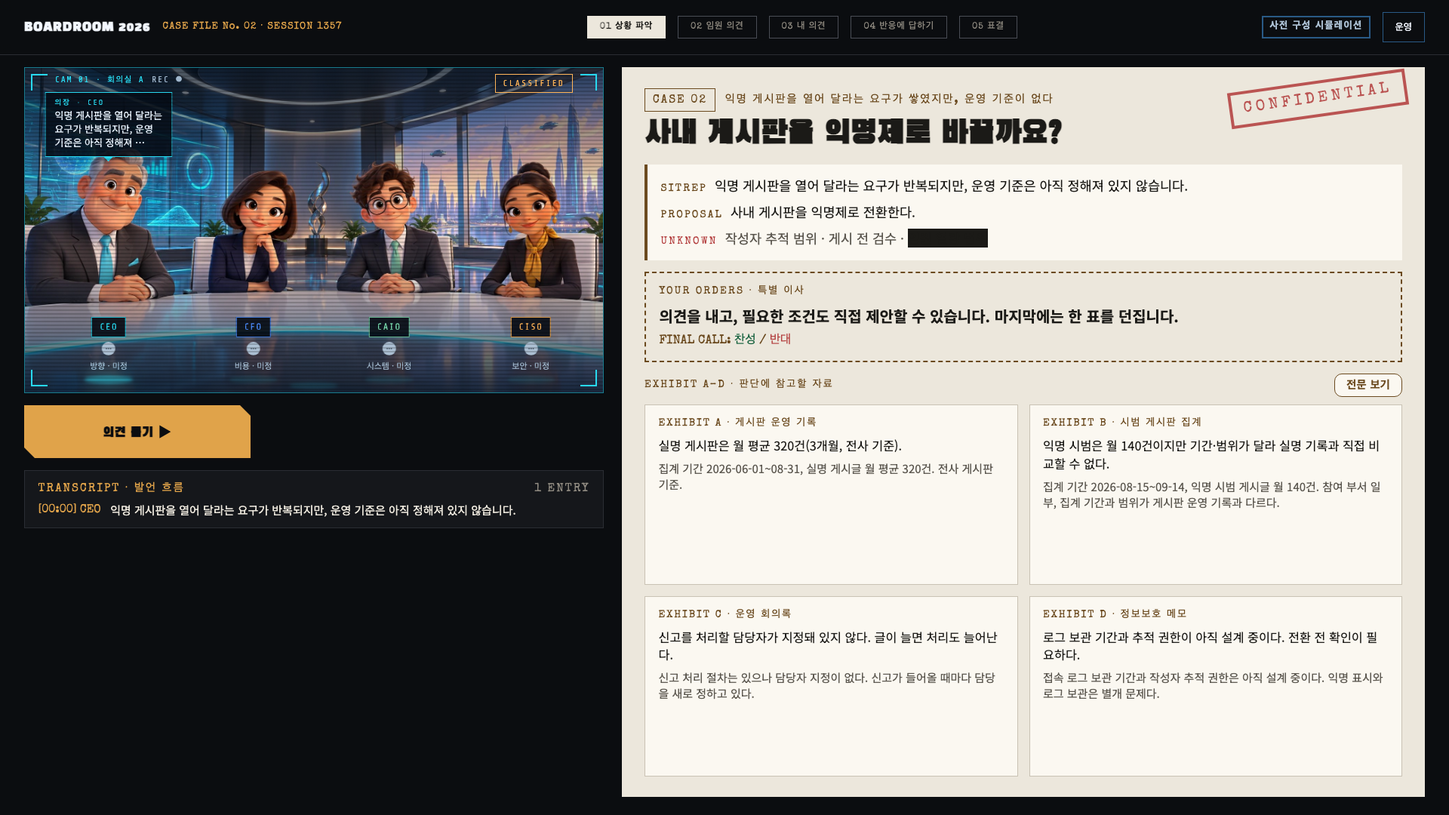
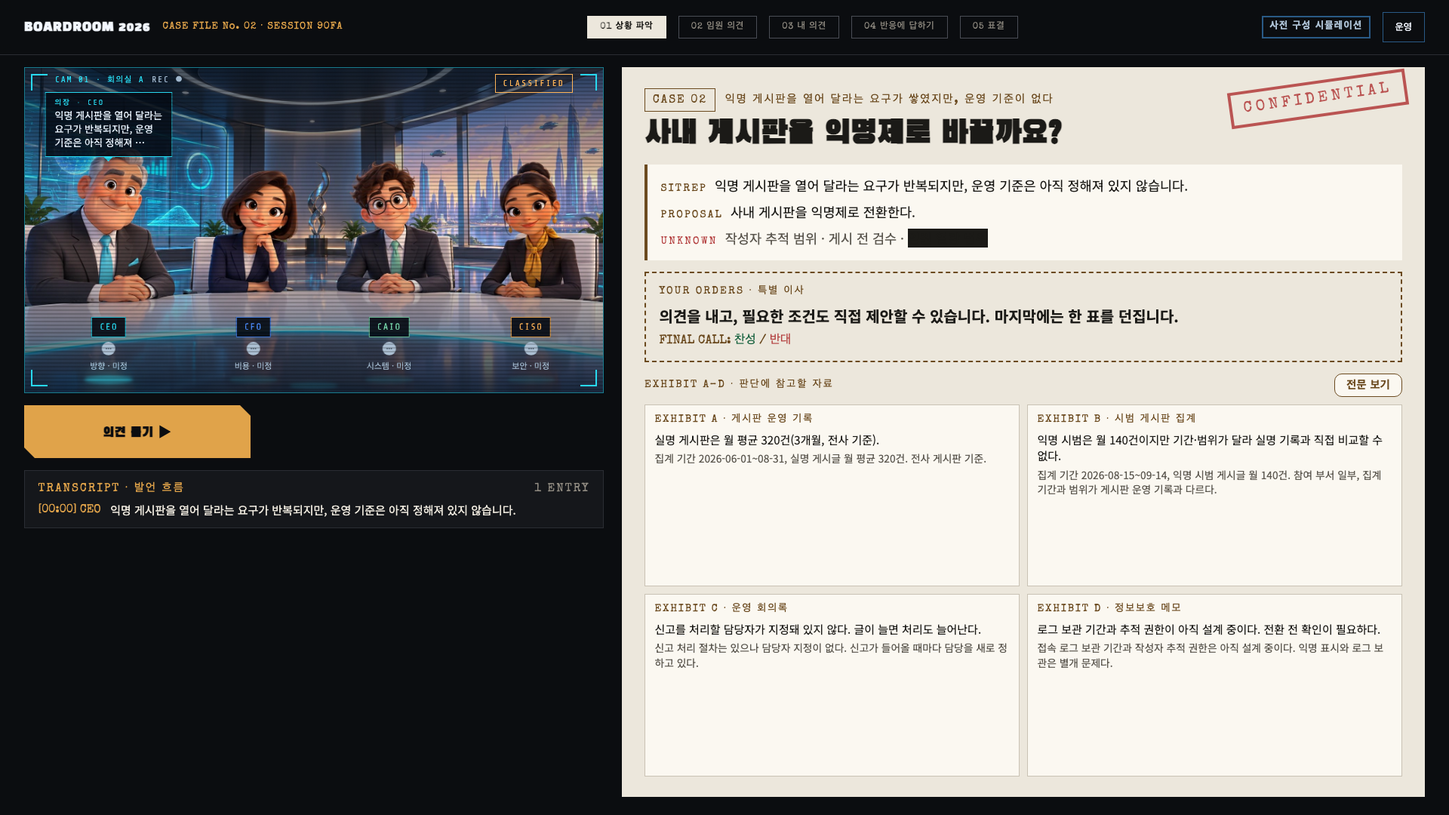
T80: PR #14 Codex 1차 검토 수정 — EXHIBIT 1280 클립, 전문 보기 터치 타깃, UNKNOWN 먹칠 aria-label
1) 1280×720에서 EXHIBIT C·D 카드가 그리드 내부 스크롤 밖으로 밀려 toBeVisible()은
   통과해도 실제로는 종이 패널 밖에 있었다. evidence-grid--compact에
   grid-auto-rows: minmax(0,1fr), evidence-card--compact에 min-height: 0을 더하고
   1280 치수(패딩·간격·클램프 글자 크기)를 줄여 두 행이 실제 가용 높이 안에
   맞도록 고쳤다. 요약 카드 bounding box가 종이 패널 안에 있는지 보는 e2e 단언을
   추가했다.

2) "전문 보기" 버튼이 작아지며 터치 타깃도 함께 줄어든 것을, 보이는 크기는 그대로
   두고 버튼 중심에 겹치는 투명 ::before(--touch-min 56px)로 히트 영역만 보강했다.
   버튼 바깥 지점을 눌러도 열리는지 좌표로 확인하는 e2e 단언을 추가했다.

3) 먹칠된 마지막 UNKNOWN 항목이 스크린리더에는 평문으로만 읽혀 "먹칠됨" 상태를
   알 수 없던 것을, aria-label로 값과 상태를 함께 읽게 고치고 단위 테스트를
   추가했다.

npm run check(단위 406)·npm run build·playwright(138건) 모두 통과. briefing.png(두
해상도) 재갱신, briefing-evidence.png는 팝업 자체가 바뀌지 않아 되돌렸다.

Changed region(s): [[0.4375, 0.7028, 0.9688, 0.8556], [0.7188, 0.4889, 0.9688, 0.6417], [0.4375, 0.4889, 0.6875, 0.5806]]

diff --git a/e2e/briefing.spec.ts b/e2e/briefing.spec.ts
@@ -8,6 +8,12 @@
 // 한 줄 → 결정 질문 → SITREP·PROPOSAL·UNKNOWN → YOUR ORDERS → EXHIBIT 2×2 요약 카드
 // (팝업 없이 항상 보임, testid `evidence-summary-<id>`) 순서로 바뀌었다 — 전문은 EXHIBIT
 // 머리줄의 "전문 보기"(여전히 testid `open-evidence`)로 연다.
+// PR #14 Codex 1차 검토(P2, 2026-10-02): 1280×720에서 EXHIBIT 카드 두 장(C·D)이 종이
+// 아래로 밀려 그리드 자체의 내부 스크롤(overflow-y:auto) 밖에 있었다 — `toBeVisible()`은
+// 그 상태에서도 통과하므로 종이 패널(`.briefing-screen__paper`) 안에 실제로 들어있는지
+// bounding box로 직접 확인한다. 같은 차수에서 "전문 보기" 버튼의 보이는 크기를 줄이며
+// 터치 타깃이 함께 줄어, 버튼 중심에 겹친 투명 히트 영역(`--touch-min`)으로 보강했다 —
+// 버튼 바깥(위로 10px) 지점을 눌러도 열리는지 좌표로 확인한다.
 
 import { test, expect } from './fixtures';
 
@@ -34,14 +40,49 @@ test('브리핑 오른쪽 열이 사건·결정 질문 → SITREP/PROPOSAL/UNKNO
 
   // T80: EXHIBIT 요약 카드 4장은 팝업 없이 항상 보인다(evidence-summary-<id>). 팝업
   // 전용 전문 카드(evidence-card-<id>)는 "전문 보기" 전에는 DOM에 없다.
+  // PR #14 Codex 1차 검토(P2): `toBeVisible()`만으로는 그리드 내부 스크롤 밖으로
+  // 밀려난 카드도 통과하므로, 종이 패널(`.briefing-screen__paper`) 경계 안에 bounding
+  // box가 실제로 들어있는지까지 두 해상도 모두에서 확인한다.
+  const paperBox = await page.locator('.briefing-screen__paper').boundingBox();
+  expect(paperBox, '종이 패널 위치를 읽을 수 있어야 한다').not.toBeNull();
   for (const id of EVIDENCE_IDS) {
-    await expect(page.getByTestId(`evidence-summary-${id}`)).toBeVisible();
+    const summaryCard = page.getByTestId(`evidence-summary-${id}`);
+    await expect(summaryCard).toBeVisible();
     await expect(page.getByTestId(`evidence-card-${id}`)).toHaveCount(0);
+    const cardBox = await summaryCard.boundingBox();
+    expect(cardBox, `${id} 요약 카드 위치를 읽을 수 있어야 한다`).not.toBeNull();
+    if (cardBox && paperBox) {
+      expect(
+        cardBox.y >= paperBox.y - 1 && cardBox.y + cardBox.height <= paperBox.y + paperBox.height + 1,
+        `${id} 요약 카드가 종이 패널 밖으로 밀려났다(card top=${cardBox.y}, bottom=${cardBox.y + cardBox.height}, paper top=${paperBox.y}, bottom=${paperBox.y + paperBox.height})`,
+      ).toBe(true);
+    }
   }
   const openEvidence = page.getByTestId('open-evidence');
   await expect(openEvidence).toHaveText('전문 보기');
 
-  await openEvidence.click();
+  // PR #14 Codex 1차 검토(P2): 보이는 버튼은 작아졌지만(1280에서 약 25px) 중심에 겹친
+  // 투명 `::before`가 `--touch-min`(56px) 이상의 히트 영역을 보장한다 — 버튼 자체 높이를
+  // 넘어서는 바깥(위로 10px) 지점을 눌러도 여전히 버튼 클릭으로 처리되는지 좌표로
+  // 직접 확인한다(계산된 버튼 높이만 재는 검사로는 실제 클릭 가능 여부를 증명하지 못한다).
+  const touchArea = await openEvidence.evaluate((el) => {
+    const style = getComputedStyle(el, '::before');
+    return { width: parseFloat(style.width), height: parseFloat(style.height) };
+  });
+  expect(
+    touchArea.height,
+    `전문 보기 버튼의 투명 히트 영역이 44px 미만이다(height=${touchArea.height})`,
+  ).toBeGreaterThanOrEqual(44);
+  const openBox = await openEvidence.boundingBox();
+  expect(openBox, '전문 보기 버튼 위치를 읽을 수 있어야 한다').not.toBeNull();
+  if (openBox) {
+    const outsideVisibleButtonY = openBox.y - 10;
+    expect(
+      outsideVisibleButtonY,
+      '터치 타깃 검증 전제: 버튼 위 10px 지점이 뷰포트 안에 있어야 한다',
+    ).toBeGreaterThan(0);
+    await page.mouse.click(openBox.x + openBox.width / 2, outsideVisibleButtonY);
+  }
   const dialog = page.getByTestId('evidence-dialog');
   await expect(dialog).toBeVisible();
   await expect(dialog).toHaveAttribute('role', 'dialog');

diff --git a/src/styles/screens/evidence.css b/src/styles/screens/evidence.css
@@ -89,26 +89,39 @@
    같으므로 다시 적지 않는다 — 치수(패딩·간격·글자 크기)만 덮어쓰고, 해석·원문은
    종이 한 장 안에서 2×2를 다 보여줘야 하므로 각 1~2줄로 클램프한다(기본 변형은
    EvidenceDialog 팝업 안에서만 쓰여 원문을 클램프하지 않는다 — 그 규칙은 그대로
-   둔다). */
+   둔다).
+   PR #14 Codex 1차 검토(P2): 1280×720에서 카드 두 장(C·D)이 종이 아래로 밀려 잘렸다
+   — 그리드 행(`grid-template-rows: auto`가 암묵적으로 만드는 행)과 카드(grid item)
+   모두 기본 최소 크기가 "내용 높이"라 `.evidence-grid`의 `flex:1`이 준 실제 가용
+   높이보다 카드 두 줄 분량이 더 크면(실측 232px 가용 vs 261px 필요) 그리드 자체의
+   `overflow-y:auto`가 조용히 스크롤을 만들어 `toBeVisible()`은 통과하지만 2×2 전체가
+   화면에 보이지 않았다. `grid-auto-rows: minmax(0, 1fr)`(행이 0까지 줄어들 수 있고
+   남는 공간을 균등히 나눠 가진다) + 카드 `min-height: 0`(grid item이 내용 높이 밑으로
+   줄어들 수 있게 허용)으로 두 행이 실제 가용 높이 안에 맞춰 줄어들게 하고,
+   1280 치수(패딩·행간·글자 크기)도 함께 줄여 두 줄 클램프가 실제로 그 안에 들어가게
+   했다(여유 있게 맞도록 재계산: 카드 1장 높이 104.8px × 2 + 그리드 행간 8px =
+   217.6px ≤ 실측 가용 232px). */
 .evidence-grid--compact {
-  gap: 15px;
+  gap: 10px;
+  grid-auto-rows: minmax(0, 1fr);
 }
 
 @media (max-width: 1280px) {
   .evidence-grid--compact {
-    gap: 12px;
+    gap: 8px;
   }
 }
 
 .evidence-card--compact {
-  padding: 15px 17.5px;
-  gap: 7.5px;
+  min-height: 0;
+  padding: 10px 12.5px;
+  gap: 5px;
 }
 
 @media (max-width: 1280px) {
   .evidence-card--compact {
-    padding: 12px 14px;
-    gap: 6px;
+    padding: 8px 10px;
+    gap: 4px;
   }
 }
 
@@ -123,7 +136,7 @@
 }
 
 .evidence-grid--compact .evidence-card__insight {
-  font-size: 16.25px;
+  font-size: 15px;
   line-height: 1.45;
   display: -webkit-box;
   -webkit-line-clamp: 2;
@@ -133,12 +146,12 @@
 
 @media (max-width: 1280px) {
   .evidence-grid--compact .evidence-card__insight {
-    font-size: 13px;
+    font-size: 12px;
   }
 }
 
 .evidence-grid--compact .evidence-card__meta {
-  font-size: 15px;
+  font-size: 13.75px;
   line-height: 1.4;
   display: -webkit-box;
   -webkit-line-clamp: 2;
@@ -148,6 +161,6 @@
 
 @media (max-width: 1280px) {
   .evidence-grid--compact .evidence-card__meta {
-    font-size: 12px;
+    font-size: 11px;
   }
 }

diff --git a/src/components/screens/BriefingScreen.tsx b/src/components/screens/BriefingScreen.tsx
@@ -33,8 +33,11 @@ export function BriefingScreen({ scenario, onNext }: BriefingScreenProps) {
 
   // UNKNOWN 줄(시안): 미정 항목을 " · "로 이어 붙이되, 시안의 먹칠(redaction)은
   // 마지막 항목에만 건다(카드 명시) — 글자색을 배경과 같게 해 시각적으로만 가리고
-  // 텍스트 자체(스크린리더가 읽는 내용)는 그대로 남긴다. 항목이 1개뿐이면 앞선 안내
-  // 문구 없이 그 하나만 먹칠한다.
+  // 텍스트 자체는 DOM에 그대로 남긴다. 항목이 1개뿐이면 앞선 안내 문구 없이 그
+  // 하나만 먹칠한다. PR #14 Codex 1차 검토(P2): 화면이 보이는 참가자에게는 "먹칠돼
+  // 아직 안 정해졌다"는 상태가 중요한데 평문 텍스트만 읽으면 스크린리더 사용자는
+  // 그 상태를 알 수 없었다 — `aria-label`로 값과 "먹칠 처리된 미정 항목"이라는 상태를
+  // 함께 읽어 준다(값 자체도 감추지 않는다).
   const undecidedItems = scenario.motionBreakdown.undecidedItems;
   const redactedItem = undecidedItems[undecidedItems.length - 1];
   const leadingItems = undecidedItems.slice(0, -1);
@@ -73,7 +76,12 @@ export function BriefingScreen({ scenario, onNext }: BriefingScreenProps) {
                 {leadingItems.length > 0 && (
                   <span className="briefing-screen__undecided-muted">{leadingItems.join(' · ')} · </span>
                 )}
-                <span className="briefing-screen__undecided-redacted">{redactedItem}</span>
+                <span
+                  className="briefing-screen__undecided-redacted"
+                  aria-label={`${redactedItem} (먹칠 처리된 미정 항목)`}
+                >
+                  {redactedItem}
+                </span>
               </p>
             )}
           </div>

diff --git a/src/styles/screens/briefing.css b/src/styles/screens/briefing.css
@@ -282,6 +282,7 @@
    올려 evidenceDialog.css의 단일 클래스 규칙을 항상 이긴다(이 화면의 허용 경로가
    evidenceDialog.css 밖이라 공용 규칙 자체는 건드리지 않는다). */
 .evidence-open-button.briefing-screen__evidence-trigger {
+  position: relative;
   min-height: 0;
   padding: 5px 15px;
   border-radius: 10px;
@@ -296,6 +297,22 @@
     border-radius: 8px;
     font-size: 12px;
   }
+}
+
+/* PR #14 Codex 1차 검토(P2): 위 override가 min-height를 0으로 낮춰 실제 보이는
+   버튼이 1280에서 약 25px로 줄어 터치 타깃 보장이 깨졌다. 글자 크기·테두리 등
+   보이는 모양은 그대로 작게 두고, 투명한 `::before`로 버튼 중심에 겹치는
+   `--touch-min`(56px, 다른 화면의 최소 클릭 영역과 같은 토큰) 이상의 히트 영역만
+   넓힌다 — 가상 요소는 버튼 자신의 렌더 박스라 그 안을 눌러도 버튼 클릭으로
+   처리된다(배경·테두리 없이 보이지는 않는다). */
+.evidence-open-button.briefing-screen__evidence-trigger::before {
+  content: '';
+  position: absolute;
+  top: 50%;
+  left: 50%;
+  width: max(100%, var(--touch-min));
+  height: var(--touch-min);
+  transform: translate(-50%, -50%);
 }
 
 /* 왼쪽 열 CTA(시안 "의견 듣기 ▶", 240×56/1280·300×70/1920 — AttractScreen.attract-screen__cta와

diff --git a/tests/components/BriefingScreen.test.tsx b/tests/components/BriefingScreen.test.tsx
@@ -43,4 +43,19 @@ describe('BriefingScreen', () => {
       expect(screen.getByTestId(`evidence-summary-${card.id}`)).toBeInTheDocument();
     }
   });
+
+  // PR #14 Codex 1차 검토(P2): 마지막 UNKNOWN 항목은 글자색을 배경과 같게 해
+  // 시각적으로만 가린다(먹칠) — 평문 텍스트만 읽으면 스크린리더 사용자는 "먹칠된
+  // 상태"를 알 수 없으므로 aria-label로 값과 상태를 함께 읽어 준다.
+  it('마지막 UNKNOWN 항목은 값과 "먹칠 처리된 미정 항목" 상태를 함께 읽는 aria-label을 가진다', () => {
+    render(<BriefingScreen scenario={anonBoardScenario} onNext={vi.fn()} />);
+    const items = anonBoardScenario.motionBreakdown.undecidedItems;
+    const lastItem = items[items.length - 1]!;
+    const redacted = screen.getByText(lastItem, { selector: '.briefing-screen__undecided-redacted' });
+    expect(redacted).toHaveAttribute('aria-label', `${lastItem} (먹칠 처리된 미정 항목)`);
+    // 앞선 항목들은 먹칠하지 않고 평문 그대로 보인다.
+    for (const item of items.slice(0, -1)) {
+      expect(screen.getByText(new RegExp(item))).toBeInTheDocument();
+    }
+  });
 });

diff --git a/docs/TASKS.md b/docs/TASKS.md
@@ -60,7 +60,7 @@
 | T75 | 완료 | 최종 안건 화면을 시안 `S5_Motion.html`대로(2026-10-02 "시안 이탈 금지" 지시). 왼쪽 열은 무대 아래 TRANSCRIPT만 남는다(시안에 입력 상자가 없다) — `app-body__actions`에는 `ExecStanceList`(sr-only)와 조건부 "응답 없는 임원 다시 요청" 보조 버튼만 둔다(공용 `MinutesPanel` 내부는 건드릴 수 없어 그 바로 위에 작게 배치). 오른쪽 종이 한 장에 STEP 05·1/2 + DRAFT 도장 + "MOTION ON THE TABLE · 원안/수정안" 상자(`domain/motion.ts` 문안 생성 규칙은 그대로 — 항상 `scenario.originalMotion.text`, 라벨만 확정 조건 유무로 가른다) + CONDITIONS·NOT INCLUDED 2열(녹색 pill은 OPINIONS와 같은 이유로 대비 미달 `#1f8f5f` 대신 `--paper-vote-yes`, NOT INCLUDED는 `scenario.conditions`에서 미확정 조건 라벨을 그대로 나열하는 새 계산) + CHAIR 점선 안내(시나리오 무관 공통 문구) + 바닥 CTA를 담는다. **CTA는 이 화면의 예외로 오른쪽 종이 바닥에 둔다**(왼쪽 열에 입력 상자가 전혀 없는 시안이라 "CTA는 항상 왼쪽 열" 원칙이 적용되지 않는다, motion.css 주석에 근거 기록). 시안에 없는 "남은 확인 사항"(remainingTasks) 목록은 뺐다(데이터·RESULT 화면 사용은 그대로). 기존 testid(`motion-card`·`motion-conditions`·`freeze-motion`·`motion-waiting-followup`·`retry-failed-roles`)는 모두 유지. `e2e/screenshots.spec.ts`에 빠져 있던 `motion.png` 캡처를 새로 추가. `npm run check`(단위 385)·`npm run build`·`npx playwright test -c playwright.local.config.ts`(126개) 모두 통과, 두 해상도 스크린샷을 `preview/S5_Motion.png`와 육안 대조(구성 일치). `DESIGN_SPEC.md` v1.3 절에 MOTION 소절(6절) 추가 |
 | T76 | 완료 | 표결 화면을 시안 `S6_Vote.html`대로(2026-10-02 "시안 이탈 금지" 지시, T75와 함께 처리). 왼쪽 열은 무대 아래 "BALLOTS · 임원 표" HUD 패널(`vote-screen__ballots`, 임원 4명 항상 봉인 "?" 배지 — 임원 표는 이 화면에서 절대 공개하지 않는 기존 규칙을 live·scripted 구분 없이 그대로 지킨다)과 TRANSCRIPT를 담는다. 안내 한 줄("임원 판단을 기다리는 중…")·"미표결 임원 다시 요청" 버튼은 live에서 `execBallotsPending`이 참인 동안만 보여준다 — **참가자 자신의 투표 확정 여부(`submitted`)와는 무관하게** 바꿨다(기존 코드는 `submitted`도 요구했지만 `execBallotsPending`은 live FREEZE_MOTION 즉시 참으로 시작해 참가자가 선택하기 전부터 이미 유효하고, 시안도 그 상태를 보여준다). 오른쪽 종이 한 장에 STEP 05·2/2 + CONFIDENTIAL 도장 + MOTION 한 줄 상자(`motion.text`는 그대로 — 반영 조건은 `vote-screen__sr-only` 문단으로 화면 모양 변화 없이 정보만 남긴다) + 찬성/반대 큰 원형 도장 라디오 2칸 + 바닥 CTA를 담는다. **CTA·라디오는 이 화면의 예외로 오른쪽 종이 안에 둔다**(T75와 같은 이유). 원형 도장 라디오는 네이티브 input을 `opacity:0`으로 숨기되 `label` 전체(`inset:0`+`width/height:100%`+`z-index:1`)를 덮게 한다 — 1×1px만으로는 position:absolute 기본 위치가 도장과 겹쳐 Playwright가 "intercepts pointer events"로 막혔고, `z-index` 없이는 같은 stacking 맥락의 `inline-flex` 도장이 실측상 더 위에서 클릭을 가로챘다(`document.elementFromPoint`로 확인). 기존 testid(`vote-motion-card`·`vote-radio-YES`/`-NO`·`confirm-vote`·`retry-failed-roles`)는 모두 유지. `e2e/screenshots.spec.ts`의 `vote.png`(두 해상도)를 새 레이아웃으로 갱신(T75의 `motion.png` 추가와 같은 파일이라 한 커밋에 모았다). `npm run check`(단위 385)·`npm run build`·`npx playwright test -c playwright.local.config.ts`(126개) 모두 통과, 두 해상도 스크린샷을 `preview/S6_Vote.png`와 육안 대조(구성 일치). `DESIGN_SPEC.md` v1.3 절에 VOTE 소절(7절)·검수 소절(8절) 추가 |
 | T77 | 완료 | 왼쪽 열 "발언 흐름" 패널(`MinutesPanel`)을 시안 TRANSCRIPT 형식(S2_Opinions·S5_Motion·S6_Vote·Main 공통)으로 통일. 아바타·역할 배지·"내 항목" 강조 배경을 빼고 행마다 타자기 앰버 `[mm:ss] 역할` 태그 + 본문만 남겼다. `components/minutes.ts`에 순수 함수 `formatElapsed(startedAt, occurredAt)`과 `MinutesEntry.timeLabel`을 더해 세션 시작 기준 실측 경과 시간을 계산한다(live 응답은 `Statement.createdAt`, "나" 항목은 `Opinion.createdAt`, 각본 문구·미응답은 `TIME_UNKNOWN`"--:--" — 항목 생성 규칙 자체는 건드리지 않았다). 판단 중 행은 점 세 개 애니메이션 대신 시안 그대로 "▌ 대기 중" 평문으로(muted 톤), 머리글 건수 배지는 "n건" 대신 "N ENTRIES · 스크롤"(1건은 "1 ENTRY")로 바꿨다. `minutes.css`를 시안 인라인 값(패딩 10px 14px·행 간격 6px·본문 12px/1.45)을 1280 이하 미디어쿼리로, 1920 기본은 1.25배로 재작성(모서리 각짐, T72~T76과 같은 비율). `live.css`의 죽은 `.vote-screen__waiting` 규칙 제거. RESULT "회의록 전문 보기"는 같은 `MinutesPanel`을 재사용해 화면 쪽 변경 없이 같은 모양이 된다(실측으로 "나" 항목의 실제 `mm:ss` 확인). `tests/components/minutes.test.ts`·`MinutesPanel.test.tsx`를 새 타임스탬프·pending 표시·건수 배지 형식에 맞게 갱신. `e2e/screenshots.spec.ts`의 `briefing.png`·`opinions.png`·`motion.png`·`vote.png`(두 해상도)만 갱신(패널이 없는 화면은 재인코딩 노이즈만 있어 되돌림). `npm run check`(단위 390)·`npm run build`·`npx playwright test -c playwright.local.config.ts`(126개) 모두 통과, 두 해상도 스크린샷을 `preview/S2_Opinions.png`·`S5_Motion.png`·`S6_Vote.png`와 육안 대조(구성 일치). `DESIGN_SPEC.md` v1.3 절에 TRANSCRIPT 패널 소절(8절) 추가, 검수 소절을 9절로 밀며 숫자 갱신 |
-| T80 | 완료 | BRIEFING 오른쪽 열을 시안 `docs/design/mockups/Main.html`(미리보기 `preview/Main.png`) 그대로 다시 썼다 — CONFIDENTIAL 도장 → CASE 칩+사건 한 줄 → 결정 질문 → SITREP·PROPOSAL·UNKNOWN 상자(먹칠은 마지막 항목만) → YOUR ORDERS 점선 상자("FINAL CALL: 찬성 / 반대") → EXHIBIT 2×2(남는 높이 채움) 순서. 자료 영역은 사용자 결정대로 압축 요약 카드(`EvidenceGrid` 새 `variant='compact'`, 해석·원문 각 1~2줄 클램프, testid `evidence-summary-<id>`)를 상시 두고, EXHIBIT 머리줄 오른쪽의 "전문 보기" 작은 보조 버튼(시안에 없는 유일한 추가 요소)이 기존 T68 `EvidenceDialog` 팝업(testid `evidence-card-<id>`, STATEMENTS 빈 상태 줄 포함)을 그대로 연다 — 팝업 자체(role="dialog"·포커스 트랩·Esc/딤/닫기 버튼 세 경로·스크롤 잠금)는 손대지 않았다. `briefing.css`를 전면 재작성해 모든 치수를 시안 1280 인라인 값(`@media max-width:1280px`) + 1920 기본 1.25배로 맞췄다(CTA "의견 듣기 ▶" 240×56/300×70 등). testid(`chair-briefing`·`briefing-incident`·`briefing-status`·`briefing-role`·`open-evidence`)는 모두 유지. `tests/components/BriefingScreen.test.tsx`·`e2e/briefing.spec.ts`를 새 구성·testid에 맞게 갱신(`e2e/noscroll.spec.ts`·`screenshots.spec.ts`는 기존 testid 그대로라 무수정 통과). `npm run check`(단위 405)·`npm run build`·`npx playwright test -c playwright.local.config.ts`(138건) 모두 통과, 두 해상도 모두 무스크롤·무클립 확인. `docs/screenshots/{desktop-1080,desktop-720}/{briefing,briefing-evidence}.png` 갱신 후 `preview/Main.png`와 육안 대조(구성·순서·라벨·도장·점선 상자 일치, EXHIBIT는 실제 자료 4장이라 시안 예시 2장보다 카드가 더 찼을 뿐 2×2 칸수는 같다). `DESIGN_SPEC.md`에 "v1.3 개정 — BRIEFING을 Main.html 시안 그대로" 절 추가 |
+| T80 | 완료 | BRIEFING 오른쪽 열을 시안 `docs/design/mockups/Main.html`(미리보기 `preview/Main.png`) 그대로 다시 썼다 — CONFIDENTIAL 도장 → CASE 칩+사건 한 줄 → 결정 질문 → SITREP·PROPOSAL·UNKNOWN 상자(먹칠은 마지막 항목만) → YOUR ORDERS 점선 상자("FINAL CALL: 찬성 / 반대") → EXHIBIT 2×2(남는 높이 채움) 순서. 자료 영역은 사용자 결정대로 압축 요약 카드(`EvidenceGrid` 새 `variant='compact'`, 해석·원문 각 1~2줄 클램프, testid `evidence-summary-<id>`)를 상시 두고, EXHIBIT 머리줄 오른쪽의 "전문 보기" 작은 보조 버튼(시안에 없는 유일한 추가 요소)이 기존 T68 `EvidenceDialog` 팝업(testid `evidence-card-<id>`, STATEMENTS 빈 상태 줄 포함)을 그대로 연다 — 팝업 자체(role="dialog"·포커스 트랩·Esc/딤/닫기 버튼 세 경로·스크롤 잠금)는 손대지 않았다. `briefing.css`를 전면 재작성해 모든 치수를 시안 1280 인라인 값(`@media max-width:1280px`) + 1920 기본 1.25배로 맞췄다(CTA "의견 듣기 ▶" 240×56/300×70 등). testid(`chair-briefing`·`briefing-incident`·`briefing-status`·`briefing-role`·`open-evidence`)는 모두 유지. `tests/components/BriefingScreen.test.tsx`·`e2e/briefing.spec.ts`를 새 구성·testid에 맞게 갱신(`e2e/noscroll.spec.ts`·`screenshots.spec.ts`는 기존 testid 그대로라 무수정 통과). `npm run check`(단위 405)·`npm run build`·`npx playwright test -c playwright.local.config.ts`(138건) 모두 통과, 두 해상도 모두 무스크롤·무클립 확인. `docs/screenshots/{desktop-1080,desktop-720}/{briefing,briefing-evidence}.png` 갱신 후 `preview/Main.png`와 육안 대조(구성·순서·라벨·도장·점선 상자 일치, EXHIBIT는 실제 자료 4장이라 시안 예시 2장보다 카드가 더 찼을 뿐 2×2 칸수는 같다). `DESIGN_SPEC.md`에 "v1.3 개정 — BRIEFING을 Main.html 시안 그대로" 절 추가. PR #14 Codex 1차 검토(P2 3건) 수정: ① 1280×720에서 EXHIBIT C·D가 그리드 내부 스크롤 밖으로 밀려 있던 것을 `grid-auto-rows: minmax(0,1fr)` + 카드 `min-height:0` + 1280 치수 축소(패딩·간격·클램프 글자 크기)로 고치고 요약 카드 bounding box가 종이 패널 안에 있는지 보는 e2e 단언 추가. ② "전문 보기" 버튼이 작아지며 터치 타깃이 줄어든 것을 투명 `::before`(`--touch-min` 56px)로 보강하고 버튼 바깥 지점 클릭으로 열리는지 보는 e2e 단언 추가. ③ 먹칠된 마지막 UNKNOWN 항목에 `aria-label`로 값+"먹칠 처리된 미정 항목" 상태를 함께 읽게 하고 단위 테스트 추가. `npm run check`(단위 406)·`npm run build`·`npx playwright test -c playwright.local.config.ts`(138건) 재확인, `briefing.png`(두 해상도) 재갱신(`briefing-evidence.png`는 팝업 자체가 그대로라 무변경) |
 | T18~T22 | 대기 | P1, P0 PR 이후 카드 상세화 |
 | T23~T24 | 선반영 | P2 카드였으나 P0 live 구현(M-L1·M-L2)에서 범위가 이미 충족됨. T23(서버 어댑터) → `server/index.ts`의 `GET /api/health`·`POST /api/ops/probe`·`/api/board/round`·`/api/board/vote`·`/api/assistant/refine`·`/api/assistant/summarize`(스키마 검증·timeout·본문 상한 포함). T24(클라이언트 live 연결·플래그) → `src/services/assistant/live.ts`(실패 시 원문 유지·`mode:'live'` 기록)와 `src/app/mode.ts`(서버·키 없으면 scripted로 강등, `?mode=scripted` 강제). 카드 본문은 이력으로 남긴다 |
 

diff --git a/docs/design/DESIGN_SPEC.md b/docs/design/DESIGN_SPEC.md
@@ -455,3 +455,10 @@ v0.9 B안(스크롤 타임라인)을 무스크롤 조종석에 맞게 다시 정
 - 접근성·테스트: `tests/components/BriefingScreen.test.tsx`를 다시 썼다(EXHIBIT 요약 카드 4장은 항상 보이고 팝업 전문 카드는 "전문 보기" 전에는 없음, 연 뒤에는 전문 카드와 요약 카드가 함께 있음, 닫으면 전문 카드만 사라짐). `e2e/briefing.spec.ts`를 새 순서·문구("FINAL CALL: 찬성 / 반대")·testid(`evidence-summary-<id>`)에 맞게 갱신했다 — `evidenceDialog.css`·`EvidenceDialog.tsx` 자체를 검증하는 단언(role/aria-*, 포커스 트랩, 원문 클램프 없음, 자료 ID 비노출)은 그대로 유지했다. `e2e/noscroll.spec.ts`·`e2e/screenshots.spec.ts`는 기존 testid(`chair-briefing`·`briefing-status`·`briefing-role`·`open-evidence`·`evidence-dialog`·`evidence-card-<id>`)를 그대로 쓰므로 수정 없이 통과한다.
 - 검수: `npm run check`(단위 405)·`npm run build`·`npx playwright test -c playwright.local.config.ts`(138건) 모두 통과한다. 두 해상도 모두 페이지 스크롤이 없고 `.app-body__content` 내부도 잘리지 않는다(`expectNoClip`). `docs/screenshots/{desktop-1080,desktop-720}/{briefing,briefing-evidence}.png`를 갱신해 `docs/design/mockups/preview/Main.png`와 육안 대조했다(구성·순서·라벨 문구·도장·점선 상자·EXHIBIT 2×2 모두 일치, 실제 콘텐츠는 자료 4장이라 시안 예시의 2장보다 카드가 2장 더 많다 — 2×2 칸수는 그대로다). 다른 화면 스크린샷은 재인코딩 노이즈만 있어 되돌렸다.
 
+**PR #14 Codex 1차 검토(P2 3건) 수정, 2026-10-02**:
+1) 1280×720에서 EXHIBIT C·D 카드가 그리드 자체의 내부 스크롤(`.evidence-grid`의 `overflow-y:auto`) 밖으로 밀려 `toBeVisible()`은 통과해도 실제로는 종이 패널 밖에 있었다 — grid 항목·암묵 행 모두 기본 최소 크기가 "내용 높이"라 2줄 클램프 카드 두 장(실측 124.67px)이 실제 가용 높이(실측 232px)보다 커서 생긴 문제다. `.evidence-grid--compact`에 `grid-auto-rows: minmax(0, 1fr)`, `.evidence-card--compact`에 `min-height: 0`을 더해 행이 가용 높이 안에서 줄어들 수 있게 하고, 1280 치수(패딩 12px14px→8px10px, 카드 내부 간격 6px→4px, 해석 13px→12px, 원문 12px→11px, 그리드 간격 12px→8px, 1920 기본값도 같은 비율로 축소)를 함께 줄여 카드 한 장 104.8px × 2 + 행간 8px = 217.6px ≤ 가용 232px로 여유 있게 맞췄다. `e2e/briefing.spec.ts`에 요약 카드 4장의 bounding box가 두 해상도 모두에서 종이 패널(`.briefing-screen__paper`) 안에 들어있는지 직접 확인하는 단언을 더했다.
+2) "전문 보기" 버튼의 보이는 크기를 줄이며(`min-height: 0`) 터치 타깃이 1280에서 약 25px로 함께 줄었다 — 보이는 모양은 그대로 두고 버튼 중심에 겹치는 투명 `::before`(`width: max(100%, var(--touch-min)); height: var(--touch-min);`, `--touch-min`은 56px, 다른 화면의 최소 클릭 영역과 같은 토큰)로 히트 영역만 넓혔다. 가상 요소는 호스트 버튼 자신의 렌더 박스라 그 안을 눌러도 버튼 클릭으로 처리된다. `e2e/briefing.spec.ts`에 버튼 바깥(위로 10px) 지점을 `page.mouse.click`으로 직접 눌러도 팝업이 열리는지 좌표 기반으로 확인하는 단언과, `::before`의 계산된 높이가 44px 이상인지 보는 단언을 더했다.
+3) 마지막 UNKNOWN 항목의 먹칠은 글자색을 배경과 같게 하는 시각 효과뿐이라, 스크린리더는 "먹칠됐다"는 상태를 전혀 알 수 없었다 — `.briefing-screen__undecided-redacted` span에 `aria-label={`${redactedItem} (먹칠 처리된 미정 항목)`}`를 더해 값과 상태를 함께 읽게 했다(화면에 보이는 텍스트 자체는 그대로 두어 값은 감추지 않는다). `tests/components/BriefingScreen.test.tsx`에 이 aria-label을 확인하는 테스트를 더했다.
+
+검수(수정 후): `npm run check`(단위 406)·`npm run build`·`npx playwright test -c playwright.local.config.ts`(138건) 모두 통과. `docs/screenshots/{desktop-1080,desktop-720}/briefing.png`를 다시 갱신(EXHIBIT 카드가 더 작아졌을 뿐 구성·순서는 그대로)했고, `briefing-evidence.png`는 팝업 자체가 바뀌지 않아 픽셀 단위로 그대로다.
+
